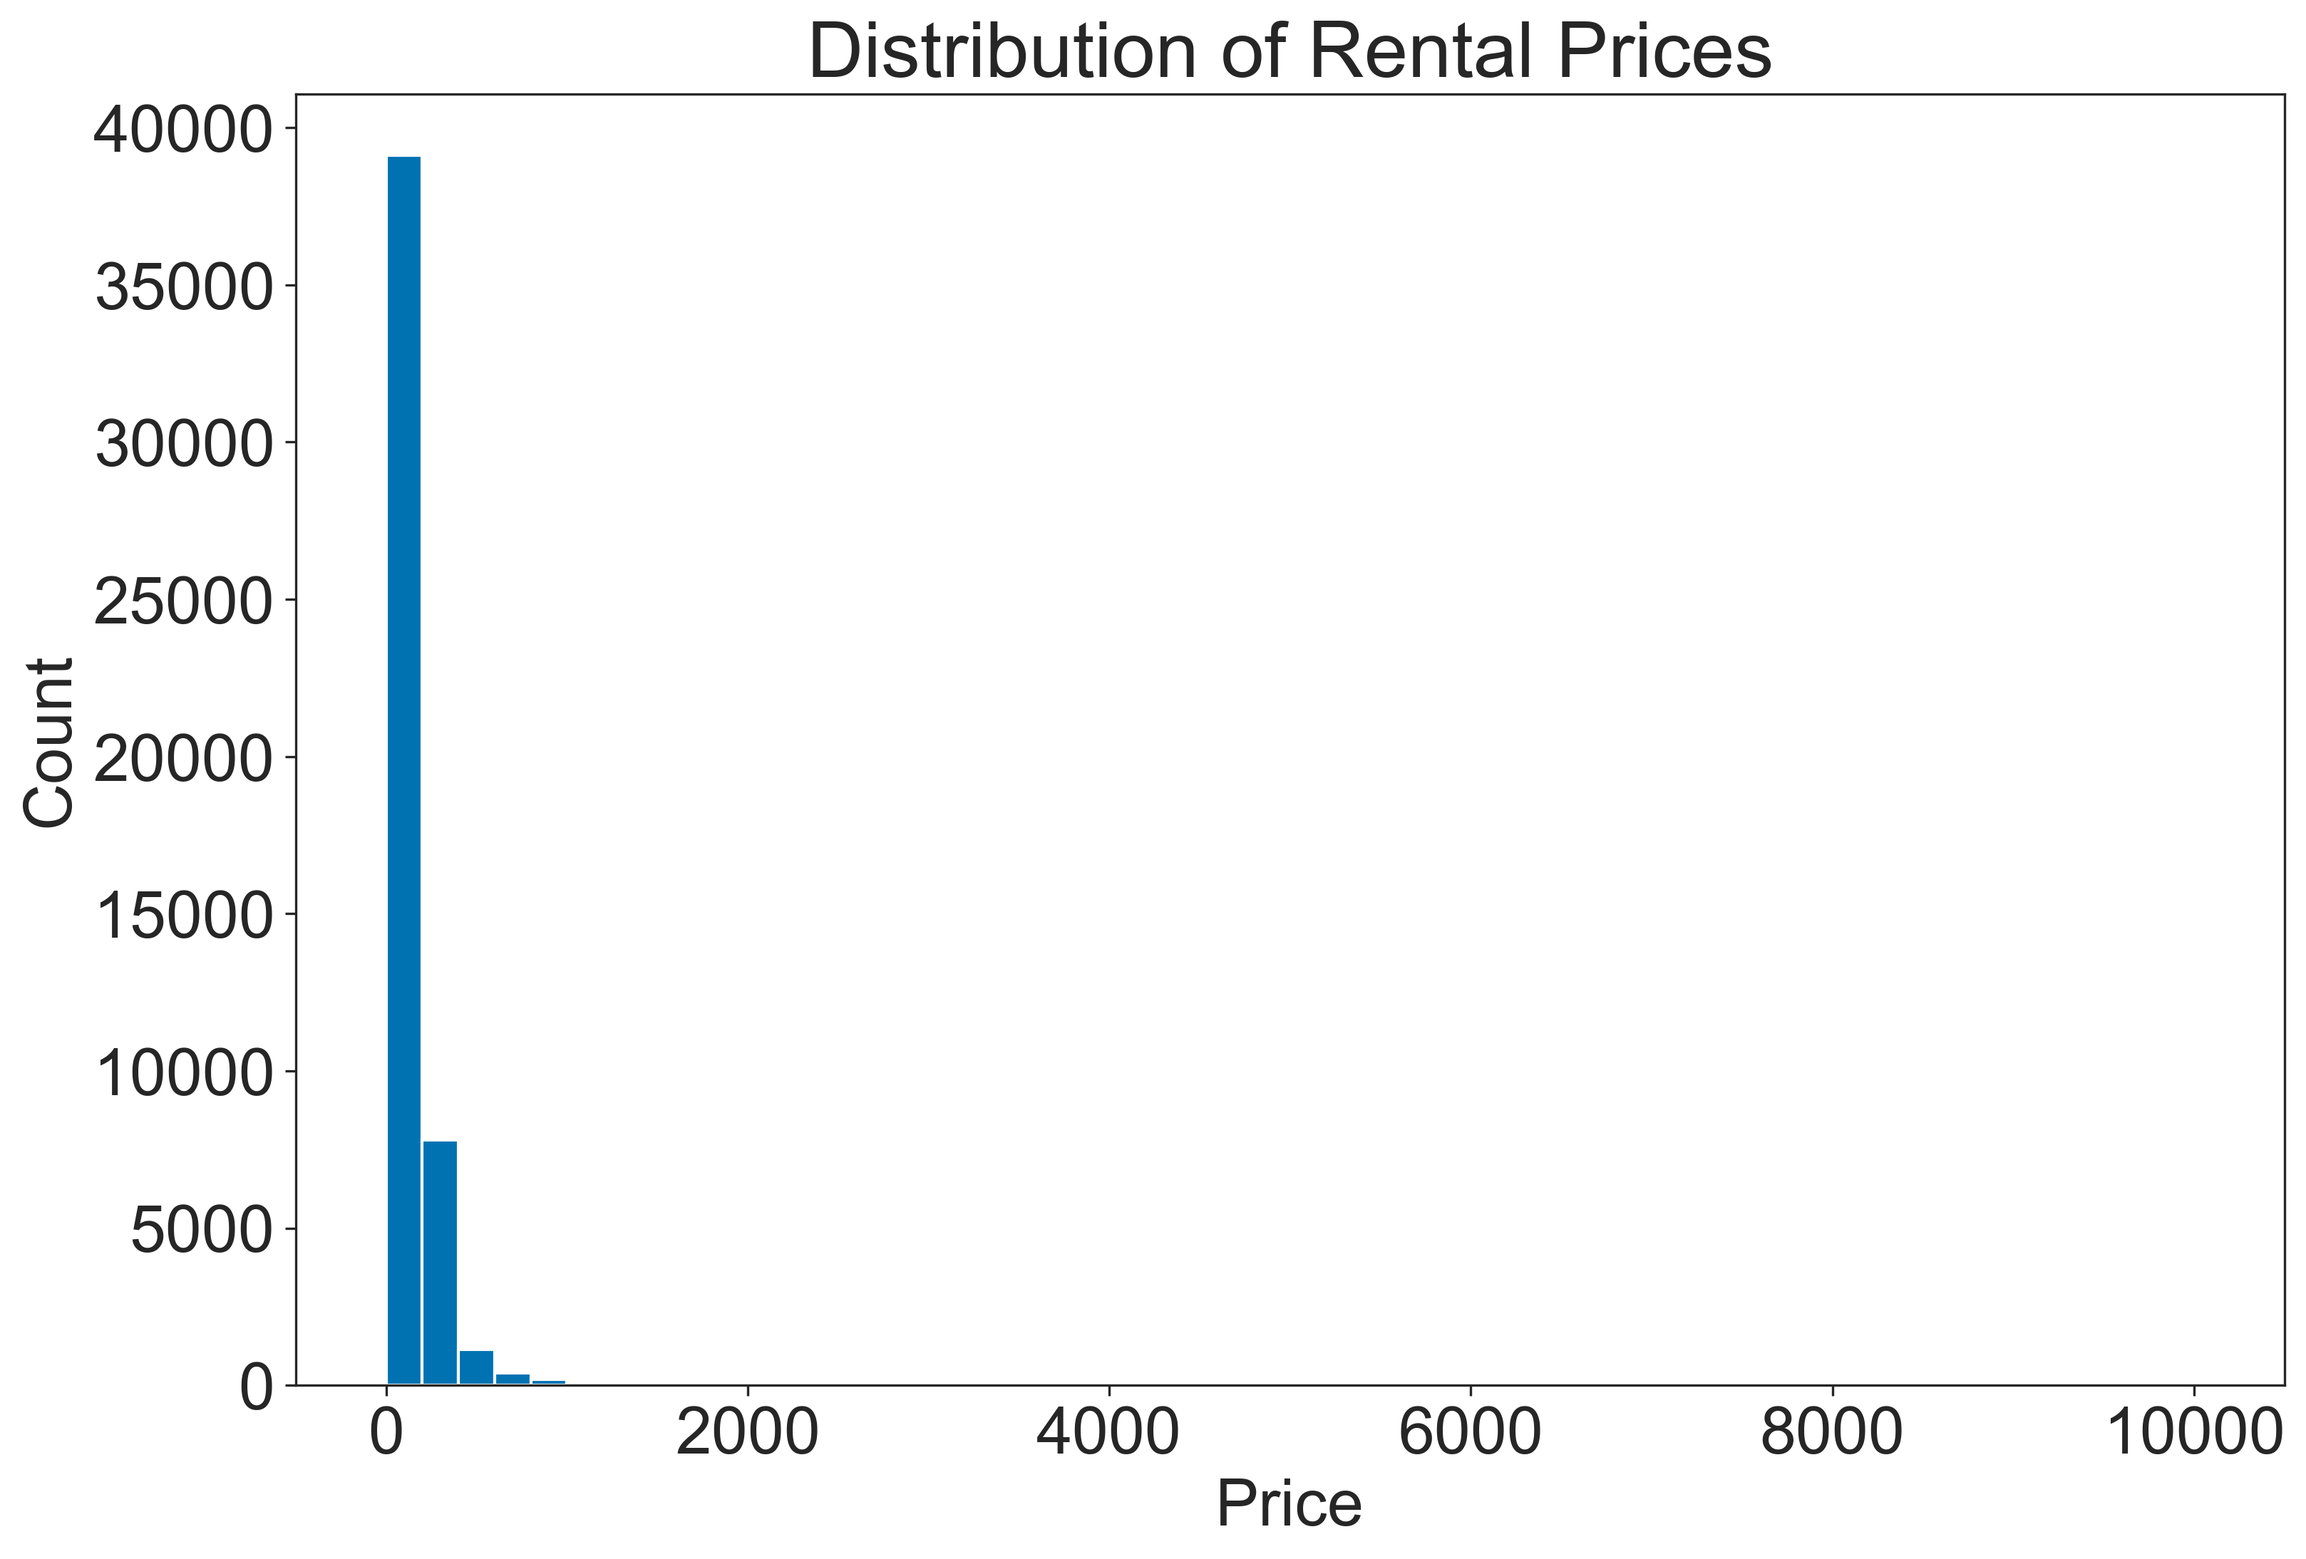
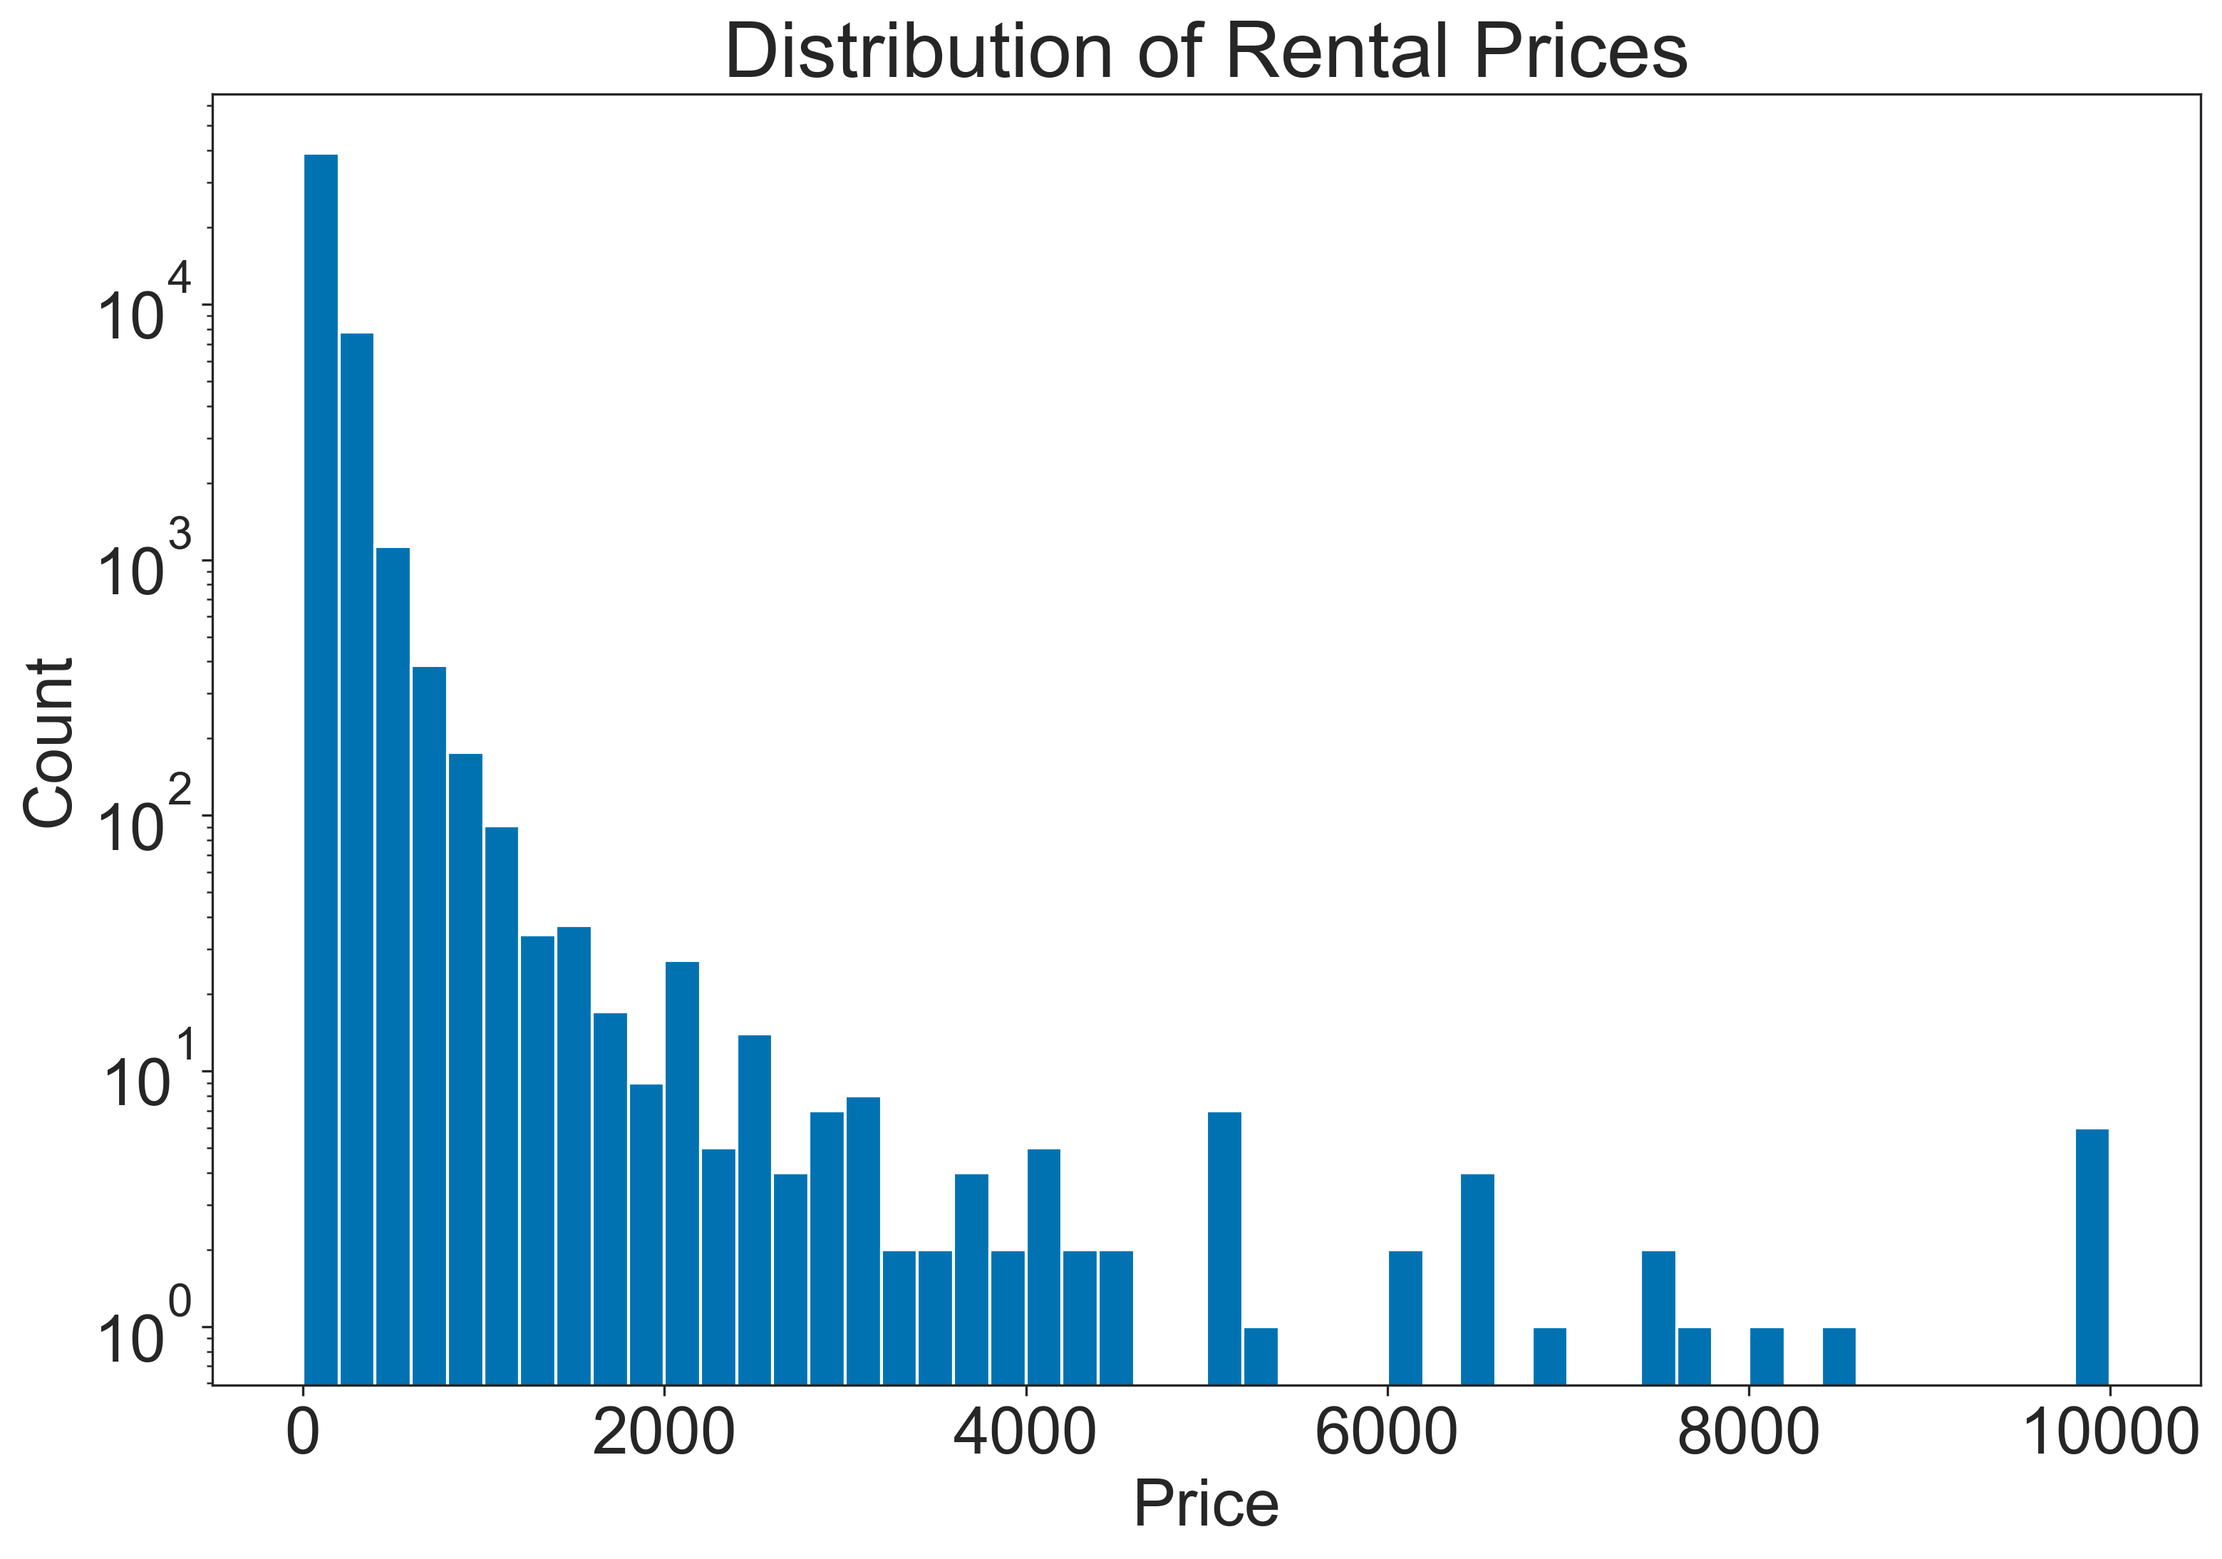
updated readme

diff --git a/README.md b/README.md
@@ -33,19 +33,15 @@ _______________________________________
 
 Let's take a look at the distribution of prices across all boroughs.
 
-![dist of prices](./images/plots/rentalpricedistupdated.png)
+![dist of prices](./images/plots/pricedistlogfalse.png)
 
 A few noteworthy things at a first glance:
 * There appears to be pricing outliers that are positively skewing the distribution
 * The pricing does not appear to be normally distributed.
 
--------------------------------------------
+## Let's see what the distribution looks like on a log scale:
 
-Because many listings have a minimum number of required nights > 1, it may be worth look at the distribution of `minimum cost`
-
-![minimum cost](./images/plots/mincostupdated.png)
-
-Again, the distribution looks positively skewed.
+![dist of prices](./images/plots/pricedistlogtrue.png)
 
 -------------------------------------------
 
@@ -122,6 +118,9 @@ I decided to remove the outliers by calculating the interquartile range (IQR),Q3
 Let's see what the distribution of prices looks like without outliers...
 
 ![violin no outliers](./images/plots/violinnooutliersupdated.png)
+
+
+![price dist no outliers](./images/plots/pricedistnooutliers.png)
 
 MUCH BETTER
 
